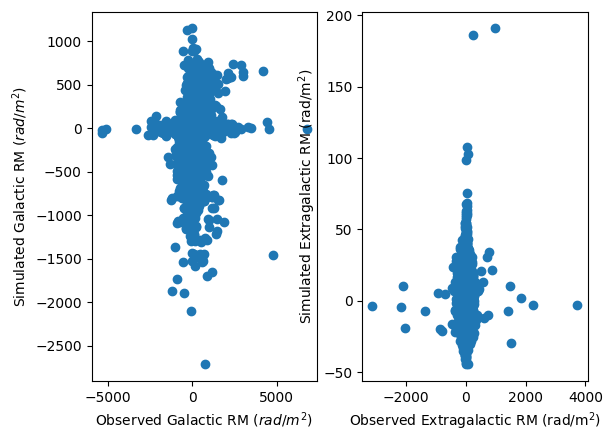
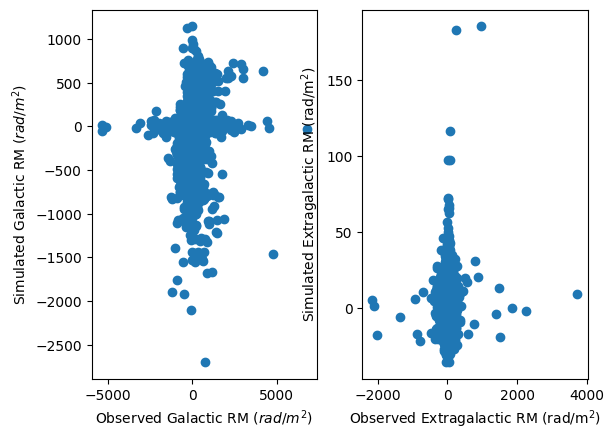
Model with two components including redshift is now available.

diff --git a/src/model_library/extra_galactic_models/ExtraGalModel.py b/src/model_library/extra_galactic_models/ExtraGalModel.py
@@ -61,6 +61,9 @@ class ExtraGalModel(Model):
         Dl=cosmo.luminosity_distance(self.z).value
         factor = float(Egf.const['factor'])
 
+        nz = Egf.const['nz']  # number of redshift bins
+
+
         expander_chi = ift.VdotOperator(ift.full(self.target_domain, 1.)).adjoint
 
         if(self.params['params_mock_cat.maker_params.n_eg_params'] == 1): #1 param
@@ -88,7 +91,40 @@ class ExtraGalModel(Model):
 
          
            
+        if(self.params['params_mock_cat.maker_params.n_eg_params'] == 22): #2 param with redshift included
+
+            normalized_z_domain = ift.RGSpace(nz, 1/nz) # that's the redshift domain. The volume is set to one, as we will manually mutiply with the real z distance later, since it is not the same for each LoS.
+            
+            full_domain = ift.DomainTuple.make((self.target_domain[0], normalized_z_domain,))
+            integrator = ift.ContractionOperator(full_domain, spaces=1) # this is the integration operator, mapping the full domain on the target_domain via a sum
+            expander = integrator.adjoint # the adjoint of this operator projects a field in the target_domain onto the full_domain
+            
+            # constructing the z_grid field
+            z_grid = np.empty(full_domain.shape) 
+            for i, z in enumerate(self.z):
+                z_grid[i] = np.linspace(1, 1 + z, nz) 
+            z_grid = ift.Field(full_domain, z_grid)
         
+            # now we proceed as before, just that the operators are defined on the full combined domain
+            add_4 = ift.Adder(ift.full(full_domain, 4))
+            multiply_1pz = ift.makeOp(z_grid.log(), sampling_dtype=float)
+            fact3 = (multiply_1pz @ add_4 @ expander @ expander_chi @ chi_red).exp()  # expander maps chi_red on the full domain
+            fact4 = ift.makeOp(((light_speed/(H0*(Wm*z_grid**3+Wc*z_grid**2 +Wl)**0.5))*(1/D0)),sampling_dtype=float)
+
+            fact5 = fact4 @ fact3
+
+            z_weights = ift.makeOp(ift.Field(self.target_domain, self.z / nz),sampling_dtype=float) # these are the z_weights to rescale the integral accordingly
+            fact6 = z_weights @ integrator @ (fact5 * (expander @ expander_chi @ chi_env_0.exp()))
+
+
+            
+            sigmaRm2 = fact6
+            
+        
+            self._model = sigmaRm2
+            self._components.update({'chi_red': chi_red, 'chi_env_0': chi_env_0, })
+
+
         if(self.params['params_mock_cat.maker_params.n_eg_params'] == 3): #3 param
         
 
@@ -124,7 +160,7 @@ class ExtraGalModel(Model):
 
             fact1 = norm * term
         
-            nz = Egf.const['nz']  # number of redshift bins
+            #nz = Egf.const['nz']  # number of redshift bins
             normalized_z_domain = ift.RGSpace(nz, 1/nz) # that's the redshift domain. The volume is set to one, as we will manually mutiply with the real z distance later, since it is not the same for each LoS.
             
             full_domain = ift.DomainTuple.make((self.target_domain[0], normalized_z_domain,))
